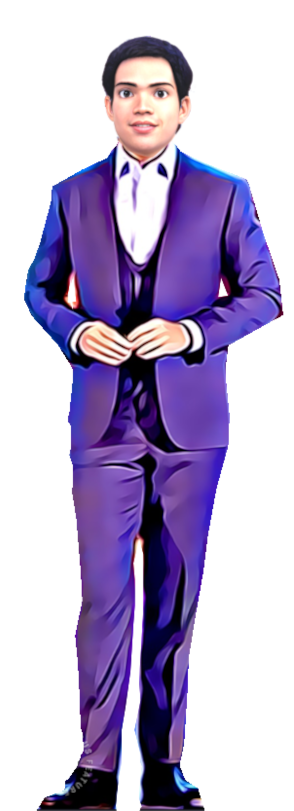
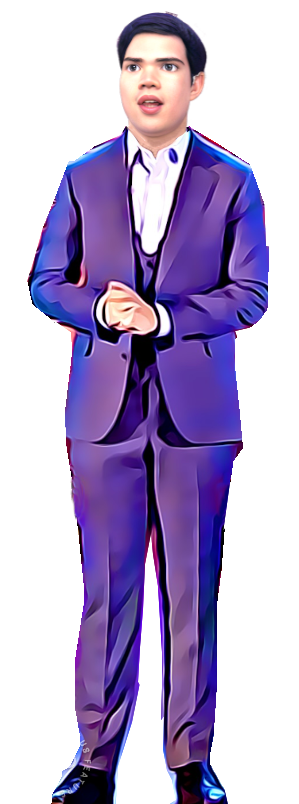
added fetching func

diff --git a/script.js b/script.js
@@ -1,24 +1,87 @@
 window.addEventListener("load", (event) => {
-    lightUp();
-    // setTimeout(()=>showLaugh(), 100);
-    // setInterval(()=> changePosture(), 10000);
+    lightsOn();
+    setInterval(() => cycle(), 1000);
 });
 
+let stop = false;
+
+const cycle = () => {
+    getJoke();
+    showLaugh();
+    if (!stop) {
+        cycle();
+    }
+}
+
 document.addEventListener('keypress', (e) => {
-    console.log(`pressed: ${e.code}`);
     if (e.code === 'Space') {
-        changePosture();
+        stop == true;
+        // getJoke();
+        // sayJoke({setup:"One\ntwo\nthree...",punchline:"four? no, boom!"});
     } else if (e.code === 'KeyX') {
         showLaugh();
     }
 });
 
+const getJoke = async () => {
+    console.log('getJoke');
+    try {
+        const res = await fetch('https://official-joke-api.appspot.com/jokes/random');
+        const joke = await res.json();
+        console.log('joke=', joke);
+        sayJoke(joke);
+    } catch (e) {
+        console.error('error fetching the joke', e);
+        const jokes = JSON.parse(atob(data));
+        const joke = jokes[getRandomInt(jokes.length - 1)];
+        sayJoke(joke);
+    }
+}
+
+const filter = text => {
+    return text.replaceAll('\n', '<br/>');
+}
+
+const sayJoke = joke => {
+    const firstDialog = changePosture().firstElementChild;
+    firstDialog.innerHTML = filter(joke.setup);
+    setTimeout(() => {
+        const secondDialog = changePosture().firstElementChild;
+        secondDialog.innerHTML = filter(joke.punchline);
+    }, 4000);
+}
+
 const changePosture = () => {
     const postures = document.querySelectorAll('.comedian');
-    const index = Math.ceil(Math.random() * postures.length - 1);
-    console.log('index=', index);
-    postures.forEach(e=>e.style.visibility = 'hidden');
-    postures[index].style.visibility = 'visible';
+
+    const index = getRandomIndex(postures);
+
+    postures.forEach(e => e.classList.remove('acting'));
+    const nextPosture = postures[index];
+    nextPosture.classList.add('acting');
+    return nextPosture;
+}
+
+const getRandomIndex2 = postures => {
+    let actingIndex = -1;
+
+    for (let i = 0; i <= postures.length; i++) {
+        if (postures[i].classList.contains('acting')) {
+            actingIndex = i;
+            break;
+        }
+    }
+
+    let possibleIndex = getRandomInt(postures.length - 1);
+    if (possibleIndex === actingIndex || possibleIndex === 0) {
+        let tmp = possibleIndex;
+        while (tmp === actingIndex || tmp === 0) {
+            tmp = getRandomInt(postures.length - 1);
+        }
+        possibleIndex = tmp;
+    }
+    console.log(`a=${actingIndex} p=${possibleIndex}`);
+    return possibleIndex;
 }
 
 
@@ -27,23 +90,21 @@ const showLaugh = () => {
     const tenPercentW = window.innerWidth / 10;
     const courterW = window.innerWidth / 4;
     const verticalBase = window.innerHeight / 2;
-    const horisontalBase = Math.round(Math.random()) ? courterW : 3 * courterW ;
+    const horisontalBase = Math.round(Math.random()) ? courterW : 3 * courterW;
 
     const y = verticalBase + getRandomInt(-tenPercentH, tenPercentH);
     const x = horisontalBase + getRandomInt(-tenPercentW, tenPercentW);
-    
-    const smiles = [0x1F929, 0x1F635, 0x1F602, 0x1FAE2, 0x1F61C, 0x1F601, 0x1F92D, 0x1F92A, 0x1F602, 0x1F923, 0x1F929, 0x1F60D];
-    const smiles2 = ['😆','😅','😀','🤣','😂','😁','😊','😍','🤩','😋','😛','😜','🤪','😝','🤗','🤭','🥵', '🥶','😵','🥳','🥳','🤓','🧐','😳','😱','🤬','🤫']
-    const smile = String.fromCodePoint(smiles[getRandomInt(smiles.length - 1)]);
 
-console.log('x=', x, 'y=', y, 'h=', window.innerHeight, 'w=', window.innerWidth, 'smile=',smile);
+    const smiles = ['😆', '😅', '😀', '🤣', '😂', '😁', '😊', '😍', '🤩', '😋', '😛', '😜', '🤪', '😝', '🤗', '🤭', '🥵', '🥶', '😵', '🥳', '🥳', '🤓', '🧐', '😳', '😱', '🤬', '🤫'];
+    const smile = smiles[getRandomInt(smiles.length - 1)];
 
     const laf = document.getElementById('laughter_1');
-    laf.textContent = `${smile} HA-HA-HA ${smile}`;
     const blockWidth = laf.offsetWidth / 2;
-    laf.style.visibility = "visible";
-    laf.style.top = y + 'px';
-    laf.style.left = (x-blockWidth) + 'px';
+
+    laf.textContent = `${smile} HA-HA-HA ${smile}`;
+    laf.style.visibility = 'visible';
+    laf.style.top = `${y}px`;
+    laf.style.left = `${x - blockWidth}px`;
     laf.classList.add('burst');
 
     setTimeout(() => {
@@ -52,16 +113,16 @@ console.log('x=', x, 'y=', y, 'h=', window.innerHeight, 'w=', window.innerWidth,
     }, 1250);
 }
 
-const lightUp = () => {
+const lightsOn = () => {
     const container = document.querySelector('.curtain');
     container.classList.add('open');
 }
 
 const getRandomInt = (max, min) => {
-    if (min === null || min === undefined ) {
+    if (min === null || min === undefined) {
         min = 0;
     }
-    if (max === null || max === undefined ) {
+    if (max === null || max === undefined) {
         max = 1;
     }
     if (min > max) {
@@ -71,3 +132,39 @@ const getRandomInt = (max, min) => {
     }
     return min + Math.floor(Math.random() * (max - min));
 }
+
+
+const getRandomIndex = (postures) => {
+    let actingIndex = -1;
+
+    for (let i = 0; i <= postures.length; i++) {
+        if (postures[i].classList.contains('acting')) {
+            actingIndex = i;
+            break;
+        }
+    }
+    let indexes = Array(postures.length - 2);
+    let n = 1, i = 0;
+    while (i < indexes.length) {
+        if (n !== actingIndex) { 
+            indexes[i] = n++;
+            i++;
+        } else {
+            n++;
+        } 
+    }
+
+    return shuffleArray(indexes).pop();
+}
+
+const shuffleArray = array => {
+    for (var i = array.length - 1; i > 0; i--) {
+        var j = Math.floor(Math.random() * (i + 1));
+        var temp = array[i];
+        array[i] = array[j];
+        array[j] = temp;
+    }
+    return array;
+}
+
[1 lines of base64/hex data omitted]

diff --git a/style.css b/style.css
@@ -25,6 +25,21 @@ body {
     opacity: 100%;
 } 
 
+.speech {
+    display: table-cell;
+    text-align: center;
+    vertical-align: middle;
+    color: blueviolet;
+    word-wrap: normal;
+    font-size: x-large;
+}
+.left-speech {
+    padding: 20px 30px;
+}
+
+.right-speech {
+    padding: 0 30px;
+}
 .comedian {
     position: fixed;
     bottom: 5%;
@@ -33,22 +48,31 @@ body {
     visibility: hidden;
 }
 
+#comedian_5 {
+
+    background-image: url("./images/comedian_5.png");
+    background-repeat: no-repeat;
+    background-size: 200px;
+    background-position: bottom;
+    width: 300px;
+    height: 600px;
+}
+
 #speech_4 {
     visibility: inherit;
     z-index: 2;
     position: relative;
-    top: -100px;
-    right: 50%;
+    top: -120px;
+    right: 55%;
     background-image: url("./images/speech_2.png");
     background-repeat: no-repeat;
-    background-size: 300px;
+    background-size: 350px;
     background-position: top;
     width: 300px;
     height: 250px;
 }
 
 #comedian_4 {
-    visibility: visible;
 
     background-image: url("./images/comedian_4.png");
     background-repeat: no-repeat;
@@ -73,7 +97,6 @@ body {
 }
 
 #comedian_3 {
-    /* visibility: visible; */
 
     background-image: url("./images/comedian_3.png");
     background-repeat: no-repeat;
@@ -87,18 +110,17 @@ body {
     visibility: inherit;
     z-index: 2;
     position: relative;
-    top: -90px;
-    left: -52%;
+    top: -120px;
+    left: -60%;
     background-image: url("./images/speech_2.png");
     background-repeat: no-repeat;
-    background-size: 300px;
+    background-size: 350px;
     background-position: top;
-    width: 300px;
+    width: 360px;
     height: 250px;
 }
 
 #comedian_2 {
-    /* visibility: visible; */
 
     background-image: url("./images/comedian_2.png");
     background-repeat: no-repeat;
@@ -123,24 +145,18 @@ body {
 }
 
 #comedian_1 {
-    /* visibility: visible; */
 
     background-image: url("./images/comedian_1.png");
     background-repeat: no-repeat;
-    background-size: 300px;
+    background-size: 305px;
     background-position: bottom;
     width: 300px;
     height: 600px;
 }
 
-/* .laughter::before {
-    content: "\1FAE2 \1F601 \1F92D";
-    display: block;
+.acting {
+    visibility: visible;
 }
-.laughter::after {
-    content: "\1F602 \1F923 \1F929";
-    display: block;
-} */
 
 .laughter {
     z-index: 3;

diff --git a/index.html b/index.html
@@ -12,18 +12,19 @@
     <div class="laughter" id="laughter_1"></div>
 <div class="container">
     <div class="curtain"></div>
+    <div class="comedian acting" id="comedian_5"></div>
     <div class="comedian" id="comedian_1">
-        <div id="speech_1"></div>
+        <div class="speech right-speech" id="speech_1"></div>
     </div>
     <div class="comedian" id="comedian_2">
-        <div id="speech_2"></div>
+        <div  class="speech left-speech" id="speech_2"></div>
     </div>
     <div class="comedian" id="comedian_3">
-        <div id="speech_3"></div>
+        <div  class="speech right-speech" id="speech_3"></div>
 
     </div>
     <div class="comedian" id="comedian_4">
-        <div id="speech_4"></div>
+        <div  class="speech left-speech" id="speech_4"></div>
     </div>
 </div>
    
